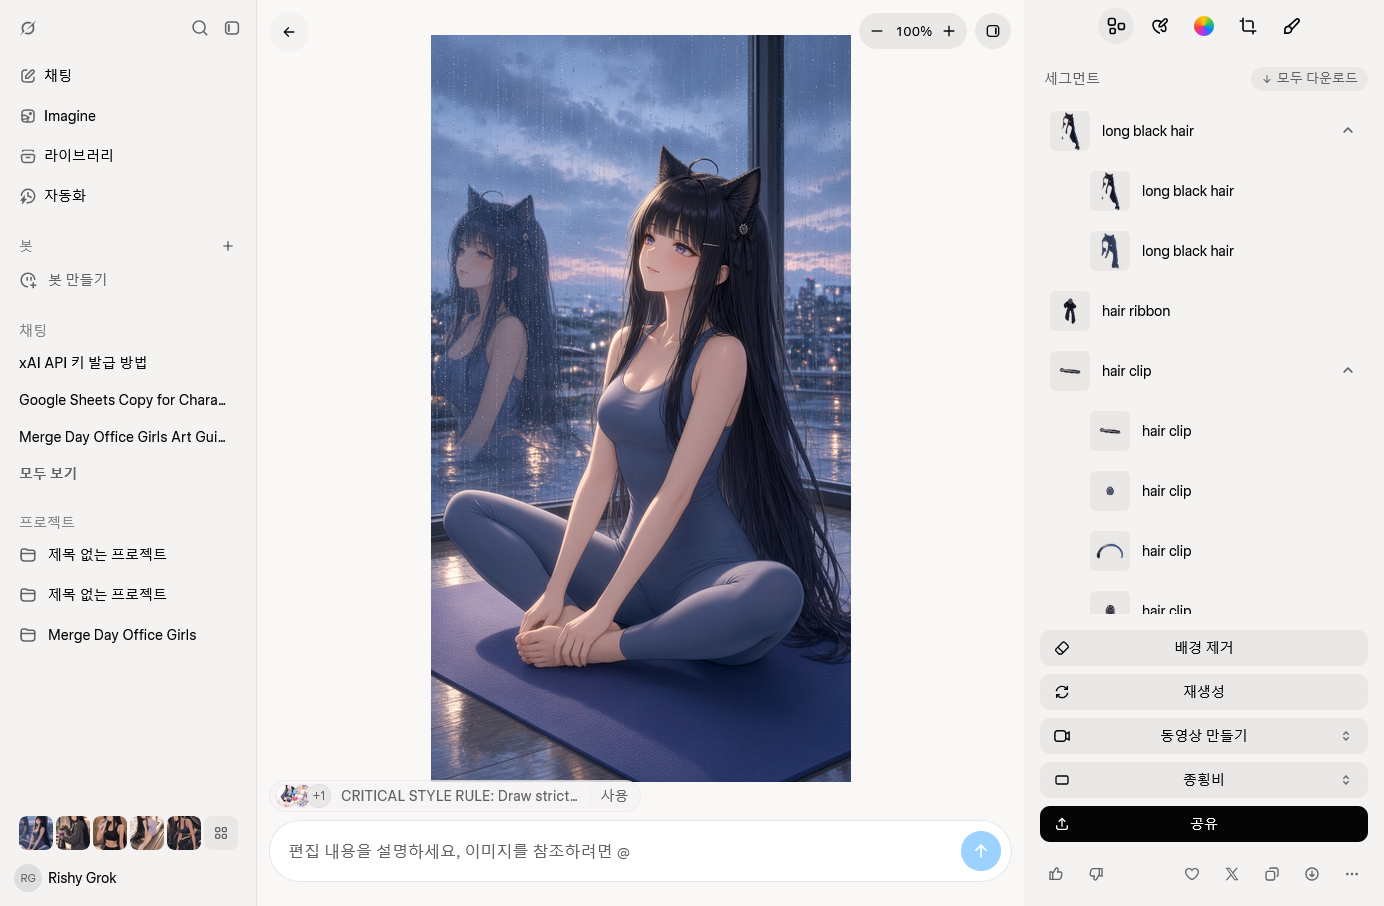
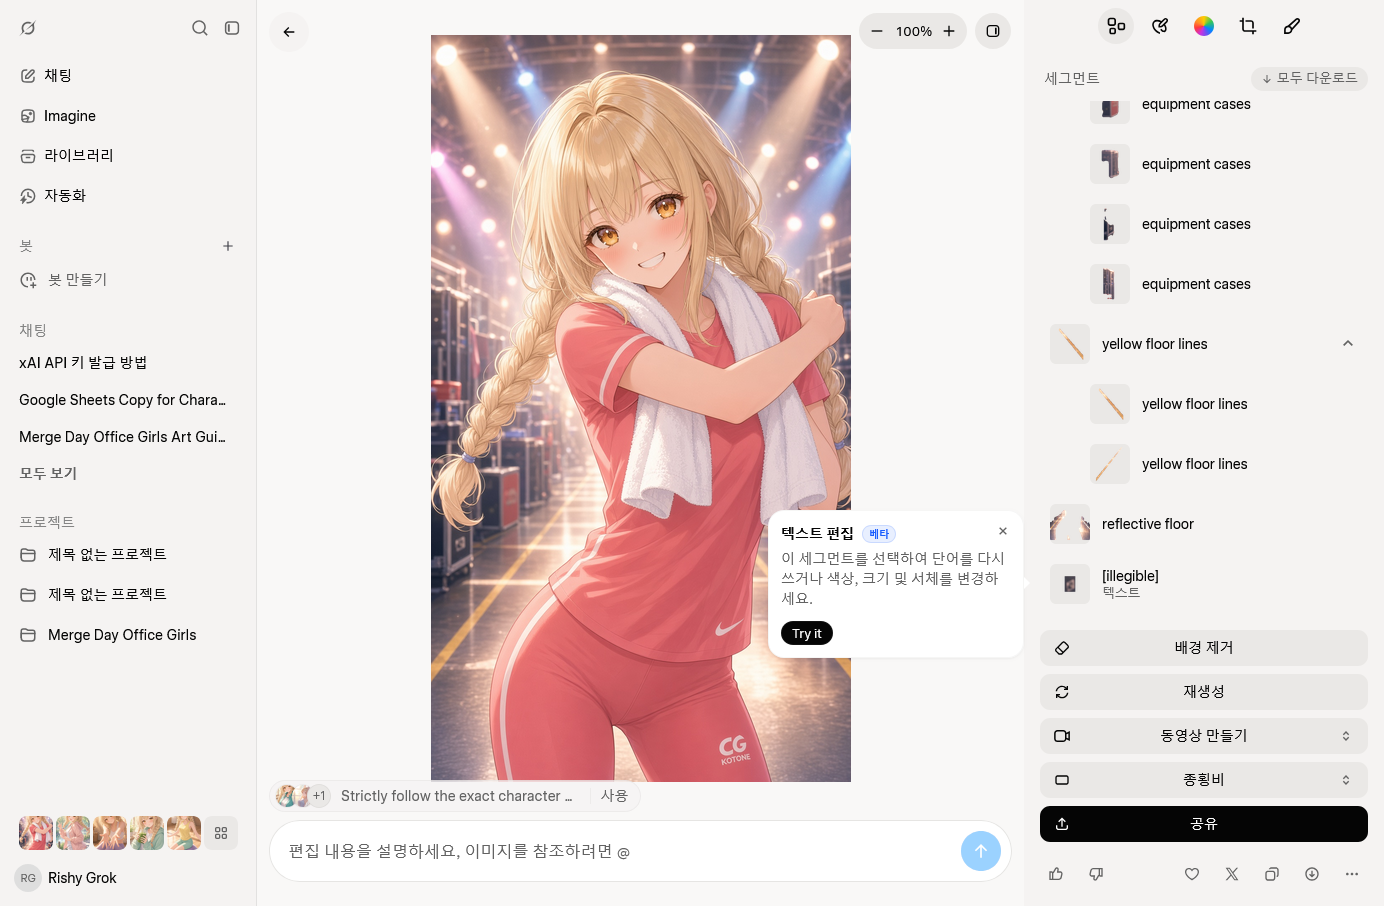
feat: complete massive 53 CG expansion (Gemini 20, Kotone 15, Mio 17 + Dual), update gallery and proof screenshots

diff --git a/index.html b/index.html
@@ -216,9 +216,9 @@
 
       <div class="flex items-center gap-1 shrink-0">
         <!-- 30 CG Gallery Modal Button -->
-        <button onclick="openGalleryModal()" class="px-2 py-1 rounded-lg bg-pink-500/10 hover:bg-pink-500/20 border border-pink-400/40 text-pink-600 dark:text-pink-300 text-[11px] font-black transition-all flex items-center gap-1 shadow-xs" title="30종 이벤트 CG 도감">
+        <button onclick="openGalleryModal()" class="px-2 py-1 rounded-lg bg-pink-500/10 hover:bg-pink-500/20 border border-pink-400/40 text-pink-600 dark:text-pink-300 text-[11px] font-black transition-all flex items-center gap-1 shadow-xs" title="53종 이벤트 CG 도감">
           <span>🎨</span>
-          <span class="px-1 py-0.2 rounded-full bg-pink-500 text-white text-[9px] font-black">35</span>
+          <span class="px-1 py-0.2 rounded-full bg-pink-500 text-white text-[9px] font-black">53</span>
         </button>
 
         <!-- InBody OCR Scan -->
@@ -1254,6 +1254,52 @@
           text: '창밖 빗소리 들으면서 고관절 스트레칭... 차분해지고 너무 좋다. 프로듀서, 이리 와서 내 등에 기대봐.',
           story: '💖 [제미니 EP.15 · 비 내리는 창가 매트] "유리창에 나란히 비친 우리 둘의 실루엣... 이대로 비가 그치지 않고 시간이 멈췄으면 좋겠다고 생각했어."'
         }
+      ,
+        {
+          key: 'ev16',
+          tag: '🏃 야외 트랙 전력 질주 스퍼트',
+          locOutfit: '📍 스타디움 트랙 · 다이내믹 로우 앵글 & 포니테일 질주',
+          img: './gemini_16_sprint.png',
+          pos: 'center 15%',
+          text: '마지막 100m 전력 질주 스퍼트야!! 지지 마, 프로듀서! 결승선까지 나랑 전속력으로 달리는 거야! 🐾🔥',
+          story: '💖 [제미니 EP.16 · 트랙 전력 질주] "바람을 가르며 나란히 달리는 이 순간... 땀방울마저 반짝여서, 프로듀서와 함께라면 어디든 달릴 수 있을 것 같았어."'
+        },
+        {
+          key: 'ev17',
+          tag: '👓 가죽 소파 안경 쓴 인바디 분석',
+          locOutfit: '📍 프라이빗 라운지 · 안경 너머 지적인 미소 & 태블릿 분석',
+          img: './gemini_17_glasses.png',
+          pos: 'center 15%',
+          text: '지난주보다 체지방률 1.2% 감량 성공이네... 흥, 제법 성실하게 따라와 줬잖아? 기특하니까 머리 쓰담쓰담 해줄게. 👓',
+          story: '💖 [제미니 EP.17 · 라운지 태블릿 분석] "소파에 웅크려 앉아 태블릿 차트를 보여주는데... 프로듀서가 안경 쓴 내 얼굴을 빤히 쳐다봐서 괜히 가슴이 두근거렸잖아."'
+        },
+        {
+          key: 'ev18',
+          tag: '🌃 서브컬처 편의점 밤거리 캔티',
+          locOutfit: '📍 심야 편의점 앞 · 오버핏 윈드브레이커 & 따뜻한 캔티',
+          img: './gemini_18_street.png',
+          pos: 'center 15%',
+          text: '쌀쌀한 밤공기 마시면서 마시는 따뜻한 차... 너랑 함께니까 편의점 앞 콘크리트 볼라드에 걸터앉아 있어도 천국 같네. 🌙',
+          story: '💖 [제미니 EP.18 · 심야 편의점 데이트] "거리의 네온 불빛 아래에서 김이 모락모락 나는 캔티를 건넸을 때... 프로듀서의 따뜻한 손끝 체온이 밤새도록 잊히지 않았어."'
+        },
+        {
+          key: 'ev19',
+          tag: '🧘 폼롤러 둔근 이완 끙끙 츤데레',
+          locOutfit: '📍 햇살 매트 · 폼롤러 마사지 아픔 참는 깜찍한 표정',
+          img: './gemini_19_roller.png',
+          pos: 'center 15%',
+          text: '으으... 아프다고 웃지 마, 바보 프로듀서! 폼롤러로 근막을 잘 풀어줘야 근육통 안 생기고 라인이 예뻐진다고... 앗, 아파! 🐾',
+          story: '💖 [제미니 EP.19 · 매트 폼롤러 마사지] "끙끙 앓는 소리를 내니까 프로듀서가 옆에서 다정하게 허리를 받쳐줬어... 아픈 것도 싹 잊을 만큼 얼굴이 빨개져버렸잖아."'
+        },
+        {
+          key: 'ev20',
+          tag: '🌇 루프탑 노을 바람 아이돌 미소',
+          locOutfit: '📍 고층 루프탑 트랙 · 황금빛 석양 역광 & 바람에 날리는 흑발',
+          img: './gemini_20_sunset.png',
+          pos: 'center 15%',
+          text: '저 노을 좀 봐, 프로듀서... 우리가 함께 달려온 날들처럼 눈부셔. 목표 체중 52kg, 이제 정말 코앞이야. 끝까지 함께하자! 🌇✨',
+          story: '💖 [제미니 EP.20 · 루프탑 석양의 약속] "붉게 물든 노을빛 속에서 프로듀서를 향해 활짝 웃었어. 처음 만났을 땐 쌀쌀맞게 굴었지만... 지금은 네가 세상에서 가장 소중해."'
+        }
       ],
       kotone: [
         {
@@ -1346,6 +1392,52 @@
           text: '받아라 프로듀서님!! 후지타 코토네의 칼로리 폭탄 박살 파워 스파이크예요~! 🏐✨',
           story: '💖 [코토네 EP.10 · 해변 비치 발리볼] "푸른 바다 바람 맞으면서 프로듀서님이랑 땀 흘리니까 알바 스트레스가 싹 날아가요! 승리의 포옹은 당연히 코토네 차지죠!"'
         }
+      ,
+        {
+          key: 'ev11',
+          tag: '🟡 밸런스볼 아슬아슬 중심잡기',
+          locOutfit: '📍 우드 스튜디오 · 옐로우 탑 & 밸런스볼 위 집중 모드',
+          img: './kotone_11_balance_ball.png',
+          pos: 'center 15%',
+          text: '와왓, 프로듀서님 잡아주세요오! 밸런스볼 코어 운동 만만하게 봤다가 코토네 뒤로 굴러갈 뻔했어요! 🟡💦',
+          story: '💖 [코토네 EP.11 · 밸런스볼 코어 훈련] "휘청거리는 제 허리를 프로듀서님이 두 손으로 번쩍 붙잡아 주셨을 때... 심장이 쿵 떨어지는 줄 알았답니다! 헤헤, 든든해요!"'
+        },
+        {
+          key: 'ev12',
+          tag: '🥤 디톡스 그린스무디 뾰로통',
+          locOutfit: '📍 키친 바 · 민트 후디 & 케일 스무디 빨대 물고 앙탈',
+          img: './kotone_12_smoothie_pout.png',
+          pos: 'center 15%',
+          text: '우우... 프로듀서님, 케일 스무디가 몸에 좋은 건 알지만... 52kg 찍으면 꼭 딸기 파르페 세 그릇 사주셔야 해요?! 🍓🥛',
+          story: '💖 [코토네 EP.12 · 디톡스 키친 타임] "살짝 뾰로통해진 제 볼을 톡톡 건드리며 웃으시는 프로듀서님... 정말 얄밉지만 그래도 칭찬해 주시면 꿀꺽 다 마실게요!"'
+        },
+        {
+          key: 'ev13',
+          tag: '🌇 노을빛 스튜디오 쿨다운 스트레칭',
+          locOutfit: '📍 석양 통창 매트 · 화이트 크롭탑 & 손끝 닿기 스트레칭',
+          img: './kotone_13_cool_down.png',
+          pos: 'center 15%',
+          text: '후우... 오늘 루틴 완벽 성공이에요. 노을이 너무 예뻐서... 프로듀서님 손 꼭 잡고 이대로 푹 쉬고 싶어요... 🌇',
+          story: '💖 [코토네 EP.13 · 노을빛 쿨다운] "마룻바닥에 나란히 앉아 숨을 고르는데, 창밖 황금빛 노을보다 제 곁에 계신 프로듀서님 눈동자가 훨씬 더 따뜻하고 예뻤어요."'
+        },
+        {
+          key: 'ev14',
+          tag: '☀ 강변 산책로 아침 햇살 조깅',
+          locOutfit: '📍 강변 벚꽃길 · 피치 윈드브레이커 & 뒤돌아 손짓하는 미소',
+          img: './kotone_14_morning_jog.png',
+          pos: 'center 15%',
+          text: '프로듀서님~ 조금만 더 힘내세요! 저기 강변 벤치까지 먼저 도착하는 사람이 오늘 칭찬 독차지하기예요! ☀🏃♀',
+          story: '💖 [코토네 EP.14 · 상쾌한 아침 강변길] "아침 공기 마시며 앞서 달리다 뒤돌아볼 때마다, 저를 쫓아 열심히 뛰어오시는 프로듀서님 모습이 너무 사랑스러웠어요!"'
+        },
+        {
+          key: 'ev15',
+          tag: '🎤 리허설 백스테이지 파이팅',
+          locOutfit: '📍 공연장 대기 복도 · 코랄 트레이닝복 & 목에 두른 스포츠 타월',
+          img: './kotone_15_backstage_cheer.png',
+          pos: 'center 15%',
+          text: '프로듀서님! 코토네 슬림해진 어깨라인이랑 복근 좀 보세요! 다 프로듀서님이 특급 코칭해 주신 덕분이에요! 💛🎤',
+          story: '💖 [코토네 EP.15 · 리허설 백스테이지] "타월로 땀을 닦으며 프로듀서님께 엄지척을 날렸어요. 무대 위에서 가장 빛나는 1등 아이돌이 되어 은혜 갚을게요!"'
+        }
       ],
       mio: [
         {
@@ -1437,6 +1529,70 @@
           pos: 'center 14%',
           text: '에헤헤! 프로듀서, 불꽃놀이보다 내 얼굴을 더 뚫어져라 쳐다봤지? 딱 걸렸네~ 볼 콕콕 벌칙이야! ❤🎆',
           story: '💖 [미오 EP.10 · 여름밤 등불 축제] "해바라기 유카타 입은 나 예쁘다고 속삭여준 순간, 밤하늘 불꽃보다 내 마음이 수천만 배 더 화려하게 터졌어. 사랑해 프로듀서!"'
+        }
+      ,
+        {
+          key: 'ev11',
+          tag: '🖐 활짝 웃으며 손잡아 이끄는 아침 러닝',
+          locOutfit: '📍 공원 오솔길 · 1인칭 POV 손잡기 & 햇살 눈맞춤',
+          img: './mio_11_hand_pull.png',
+          pos: 'center 14%',
+          text: '프로듀서! 여기서 포기하면 미오가 가만 안 둔다구! 꽉 잡아, 내가 목표 체중 52kg까지 쑥 당겨줄게! 🖐🏃',
+          story: '💖 [미오 EP.11 · 햇살 오솔길 POV] "잡아당긴 손끝에서 전해진 프로듀서의 열기... 그 어느 때보다 가슴이 두근거려서 미소로 얼버무렸지만, 내 마음 다 들켰으려나?"'
+        },
+        {
+          key: 'ev12',
+          tag: '💦 장난기 가득 풀장 워터 스플래시',
+          locOutfit: '📍 에메랄드 풀사이드 · 비키니 물보라 & 천진난만한 윙크',
+          img: './mio_12_pool_splash.png',
+          pos: 'center 14%',
+          text: '에헤헷! 넋 놓고 서 있다가 물벼락 맞았지?! 유산소 수영 1시간 완주 기념 포상 물장구라구~ 💦😉',
+          story: '💖 [미오 EP.12 · 풀사이드 물장구] "물에 젖은 채로 마주보고 소리내어 웃었던 순간... 이 여름이 영원히 끝나지 않았으면 좋겠다고 소원을 빌었어."'
+        },
+        {
+          key: 'ev13',
+          tag: '🙃 벤치 거꾸로 매달려 복근 코어 단련',
+          locOutfit: '📍 웨이트존 경사 벤치 · 거꾸로 매달려 짓궂게 올려다보는 미소',
+          img: './mio_13_bench_workout.png',
+          pos: 'center 14%',
+          text: '프로듀서가 거꾸로 보이니까 더 멋있어 보이네? 크큭, 인버티드 싯업 마지막 5개 카운트 똑바로 세어줘! 🙃💪',
+          story: '💖 [미오 EP.13 · 인버티드 벤치 코어] "거꾸로 매달려서 프로듀서와 눈이 딱 마주쳤을 때... 숨이 턱 막혔던 건 복근 운동 때문만은 아니었단 거, 비밀이야!"'
+        },
+        {
+          key: 'ev14',
+          tag: '🏖 백사장 파도 앞 파워 점프 스쿼트',
+          locOutfit: '📍 푸른 바다 백사장 · 비키니 딥 스쿼트 & 건강미 넘치는 구릿빛 태양',
+          img: './mio_14_beach_squat.png',
+          pos: 'center 14%',
+          text: '모래사장에서 점프 스쿼트 하니까 허벅지랑 둔근 자극 대박이다! 프로듀서도 같이 점프!! 🏖🔥',
+          story: '💖 [미오 EP.14 · 백사장 파워 스쿼트] "하얗게 부서지는 파도 앞에서 땀방울을 털어내며 프로듀서와 하이파이브! 우리의 건강한 52kg 슬림 프로젝트는 무적이야!"'
+        },
+        {
+          key: 'ev15',
+          tag: '☔ 소나기 속 노란 우산 둘만의 시간',
+          locOutfit: '📍 촉촉한 빗길 · 노란 우산 아래 바짝 붙은 어깨',
+          img: './mio_15_rain_umbrella.png',
+          pos: 'center 14%',
+          text: '프로듀서 옷 젖으니까 조금 더 이쪽으로 붙어... 빗소리 때문에 다행이야. 내 심장 뛰는 소리 안 들리지? ☔😳',
+          story: '💖 [미오 EP.15 · 소나기 속 노란 우산] "비 오는 날은 눅눅해서 싫었는데... 하나의 우산 아래에서 프로듀서의 따뜻한 온기가 닿은 오늘부터는 비 오는 날이 제일 좋아졌어."'
+        },
+        {
+          key: 'ev16',
+          tag: '🍫 야간 편의점 벤치 프로틴 나눔',
+          locOutfit: '📍 편의점 앞 목재 벤치 · 초코 프로틴바 반 토막 나눔',
+          img: './mio_16_conveni_bench.png',
+          pos: 'center 14%',
+          text: '자, 제일 맛있는 가운데 부분 프로듀서한테 양보할게! 오늘 8km 야간 러닝 최고였어, 냠냠! 🍫✨',
+          story: '💖 [미오 EP.16 · 편의점 앞 벤치 나눔] "가로등 불빛 아래에서 나란히 다리를 흔들며 단백질바를 나눠 먹던 시간... 그 어떤 화려한 파티보다 달콤하고 소중했어."'
+        },
+        {
+          key: 'ev17',
+          tag: '🥊 미트 트레이닝 가드 올린 승부사 미소',
+          locOutfit: '📍 복싱 체육관 링 · 빨간 글러브 가드 & 다부진 파이팅 눈빛',
+          img: './mio_17_boxing_guard.png',
+          pos: 'center 14%',
+          text: '프로듀서, 펀치에 실린 기합 좋은데?! 가드 바짝 올리고 원-투 스트레이트 들어간다! 🥊🔥',
+          story: '💖 [미오 EP.17 · 복싱 미트 트레이닝] "글러브를 맞댈 때마다 온몸에 전율이 흘렀어! 지치지 않는 프로듀서의 열정에 반해버려서, 나 오늘도 전력투구야!"'
         }
       ]
     };
@@ -1969,6 +2125,19 @@
           list.push({ heroine: h, hName: names[h], ...ev });
         });
       });
+
+      if (filter === 'all') {
+        list.push({
+          heroine: 'gemini',
+          key: 'dual',
+          hName: '💖 3인 합동',
+          tag: DUAL_EVENT.tag,
+          locOutfit: '📍 VIP 인바디 측정실 · 3인 동시 축하',
+          img: DUAL_EVENT.img,
+          pos: DUAL_EVENT.pos,
+          text: DUAL_EVENT.text
+        });
+      }
 
       const grid = document.getElementById('galleryGridContainer');
       grid.innerHTML = list.map(item => `
